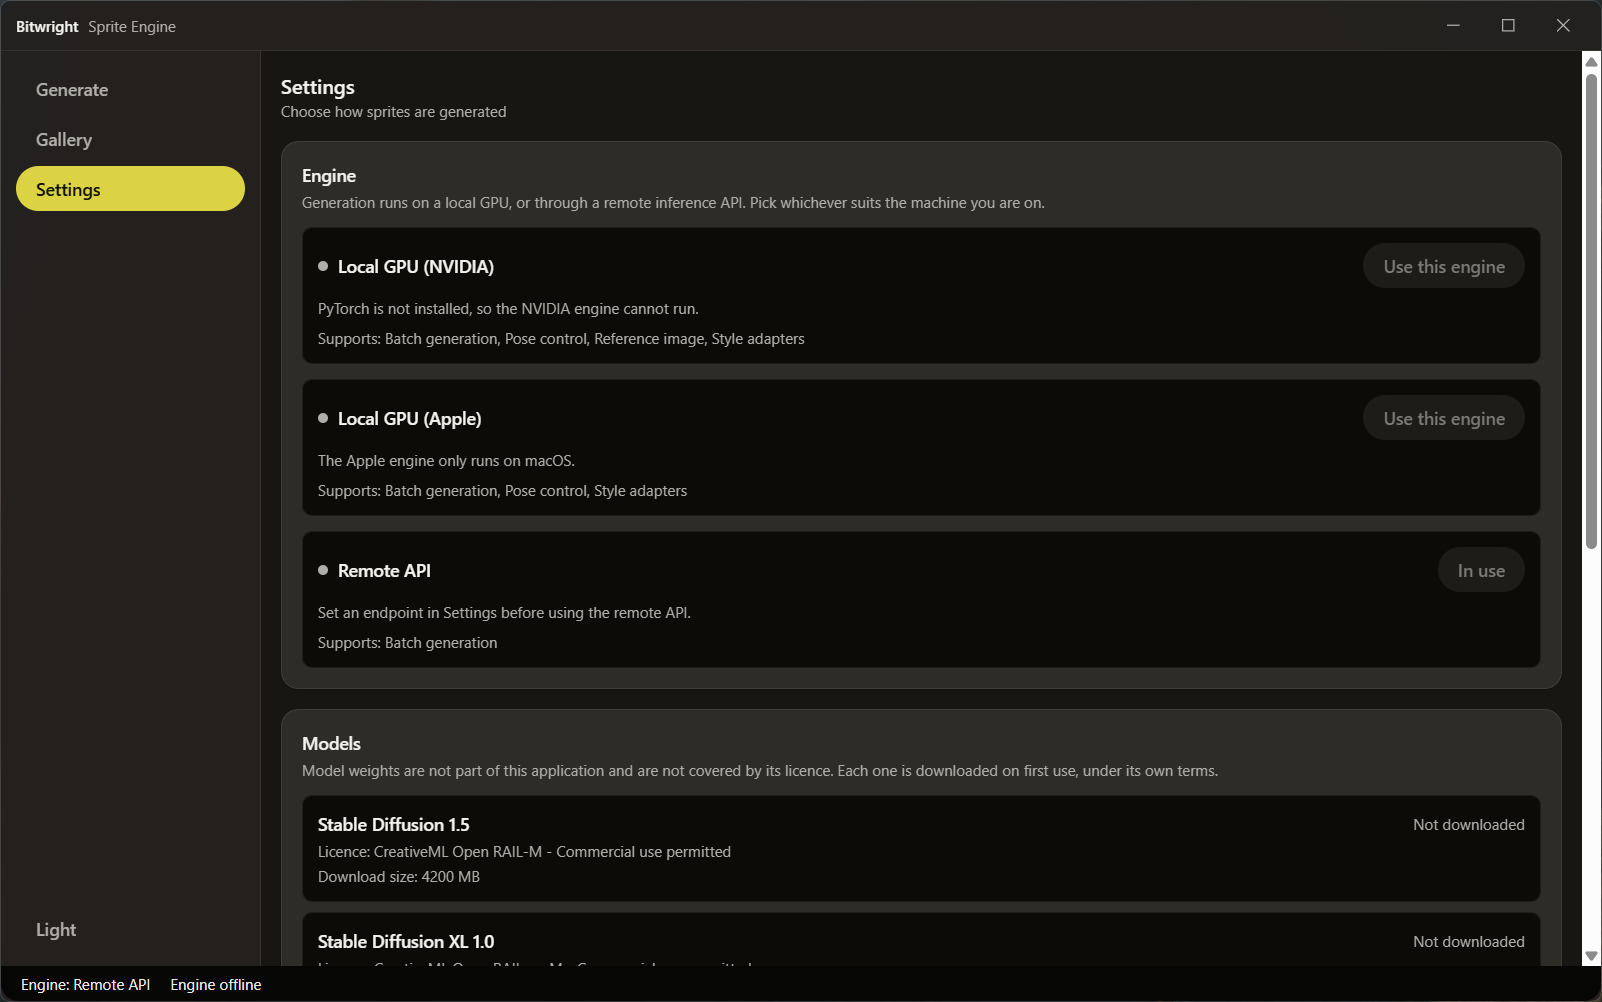
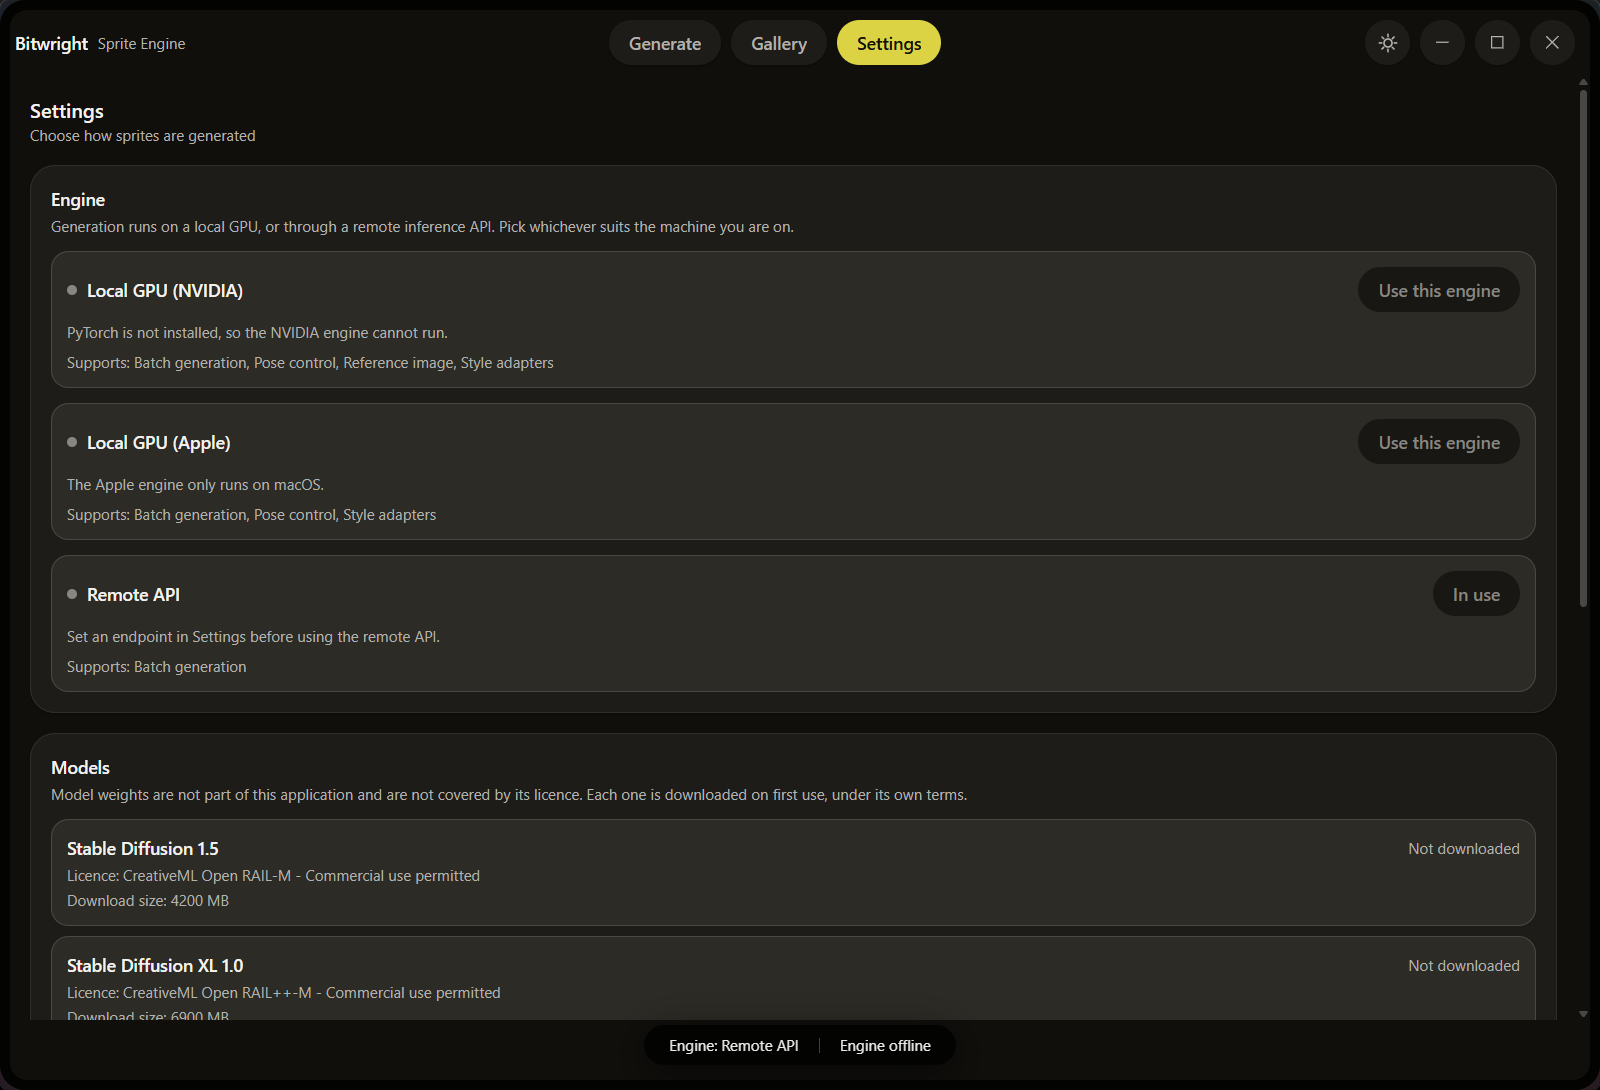
docs: update the changelog and screenshots for 0.0.3
Recapture all six screens on the new surface model, from the running
application on Windows 11.

The captures now take the client rectangle rather than the window rectangle. A
window rectangle includes the invisible resize border and the drop shadow, which
is what put a grey frame around every earlier capture.

Claude-Session: https://claude.ai/code/session_01WderdE7tY13Btdydws78mZ

diff --git a/CHANGELOG.md b/CHANGELOG.md
@@ -16,6 +16,66 @@ Both leading zeros are accurate today. Nothing has been released, and no
 user-facing capability is finished: the backends return placeholder images and
 model downloading is not implemented.
 
+## [0.0.3] - 2026-02-12
+
+A rebuild of the surface system, after the previous one turned out to be sound
+in its reasoning and wrong in its result: every light-mode surface was grey, so
+every piece of text in the application sat on grey.
+
+### Added
+
+- A role-based surface model: `--surface-canvas`, `--surface-content`,
+  `--surface-content-alt`, `--surface-input`, `--surface-well`,
+  `--surface-float`, `--surface-disabled`, `--surface-anchor`. Roles hold in
+  both modes; heights did not.
+- `--fg-placeholder`, `--fg-on-anchor`, `--input-border`, and
+  `--input-border-focus`.
+- `@separation` declarations in `tokens.css`, naming each adjacent pair, the
+  mechanism that separates them in light mode, and the token that carries it.
+  The check parses these rather than guessing.
+- Styled scrollbars. The platform scrollbar ignores the theme and is the first
+  thing that gives away a web view.
+- [ADR 0009](docs/architecture/decisions/0009-asymmetric-surface-model.md), which
+  supersedes ADR 0005.
+
+### Changed
+
+- **Light and dark now separate surfaces by different mechanisms.** In light
+  mode the canvas is grey, content surfaces are white, and they are separated by
+  border and shadow; only the canvas-to-content boundary uses lightness. In dark
+  mode content surfaces step by at least 0.050 L and shadow is not a separation
+  mechanism at all. This is what GitHub Primer, Atlassian, and Material 3 do,
+  and the reason is physical: a shadow reads on a light ground and vanishes on a
+  dark one.
+- Pure white is now used for `--surface-content`, `--surface-input`, and
+  `--surface-float`. The canvas is still never white or black, which is what the
+  old rule was really protecting.
+- Grey now means disabled, and only disabled. A disabled control is finally
+  distinguishable from an enabled one, which it was not before.
+- **The contrast check no longer takes a list of expected pairings.** It
+  discovers every foreground and surface from `tokens.css` and measures the
+  whole matrix. A failing pair must be declared unused or exempt, so adding a
+  token forces a decision instead of silently adding an unmeasured one.
+- Navigation moved from a vertical rail into a horizontal pill row in the title
+  bar, the status bar became a floating pill, and the window gained a bezel, to
+  match the reference design.
+- `--surface-1`, `--surface-2`, and `--surface-sunken` are gone, with no alias.
+
+### Fixed
+
+- Placeholder text was unreadable in both modes and had never been measured:
+  `--fg-placeholder` did not exist in the old check's list at all. It is now
+  held to a full 4.5:1 on `--surface-input` and can never be waived.
+- The check's own declaration parser was reading token names out of comment
+  prose. A scope note containing "4.5:1 on `--surface-input`: a placeholder is
+  read" made the parser swallow the real declaration that followed, so
+  `--surface-input` and `--fg-primary` looked undeclared in light mode.
+- Body text on the accent had never been measured. It is 1.38:1 in dark mode,
+  which is why the accent has a foreground token of its own.
+- The `models/` ignore rule and the Tailwind restart trap are both now written
+  down in the design system's Common mistakes, having each cost a debugging
+  session.
+
 ## [0.0.2] - 2026-02-10
 
 Hardening pass over the scaffold, with the whole application run on a real
@@ -112,5 +172,6 @@ diffusion backends returning placeholder images.
 - The engine refuses to bind any address that is not loopback, as a raise rather
   than an assertion, so the check survives `python -O`.
 
+[0.0.3]: https://github.com/Afterhours-Studio/bitwright-sprite-engine/releases/tag/v0.0.3
 [0.0.2]: https://github.com/Afterhours-Studio/bitwright-sprite-engine/releases/tag/v0.0.2
 [0.0.1]: https://github.com/Afterhours-Studio/bitwright-sprite-engine/releases/tag/v0.0.1
